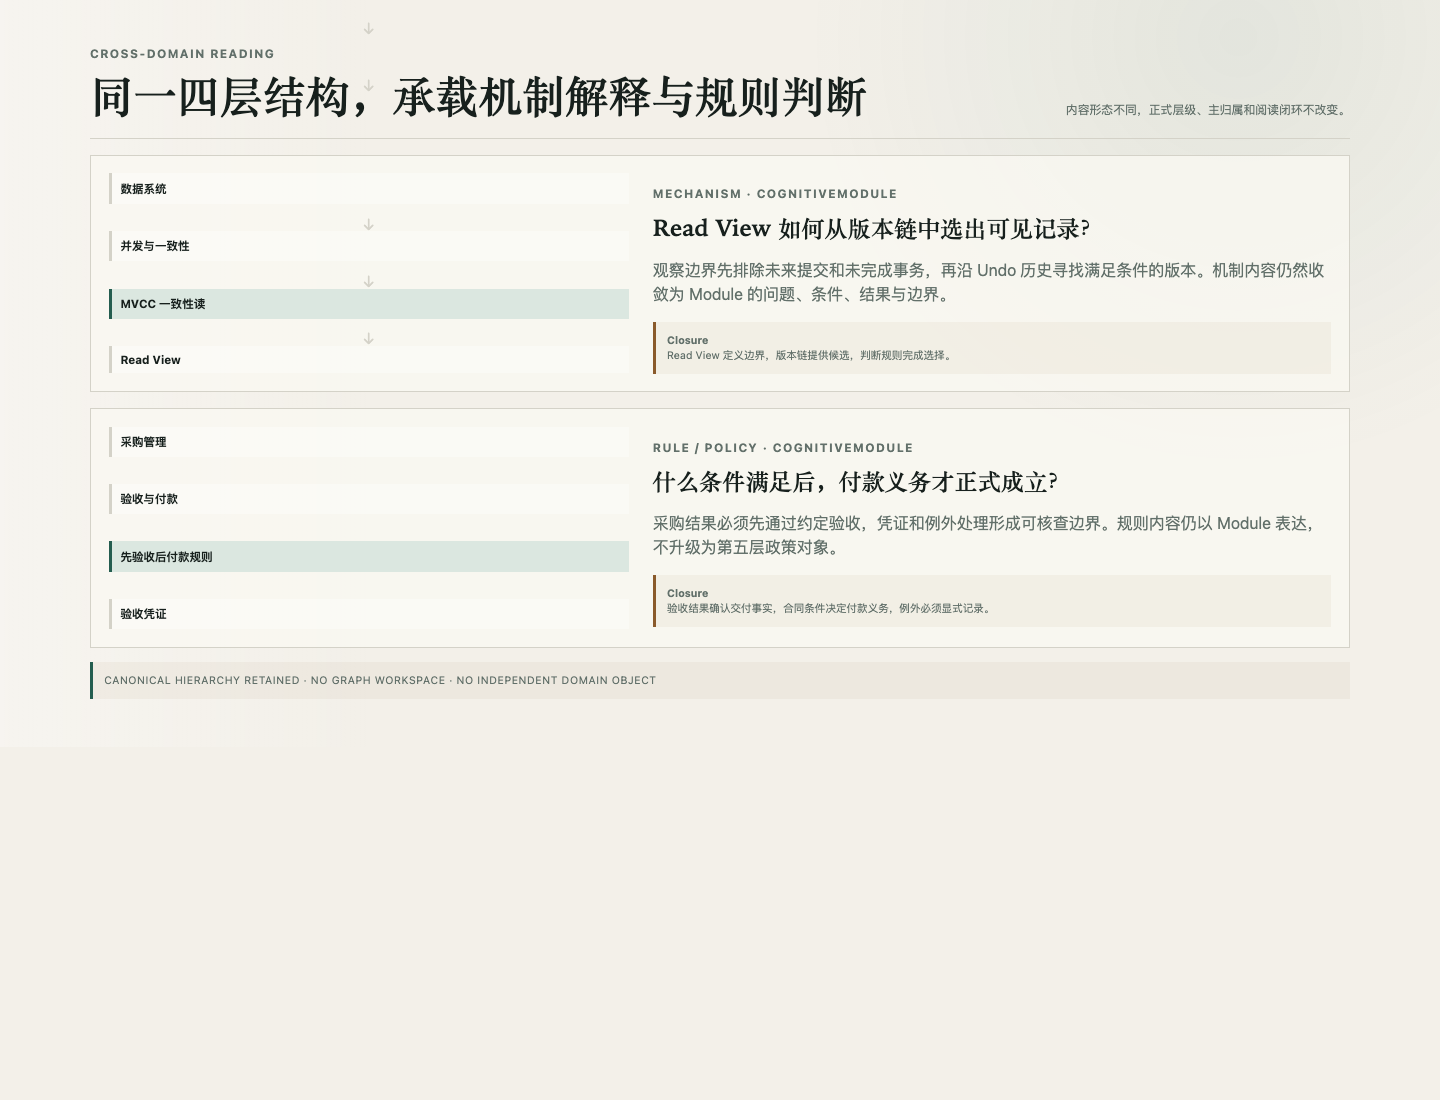
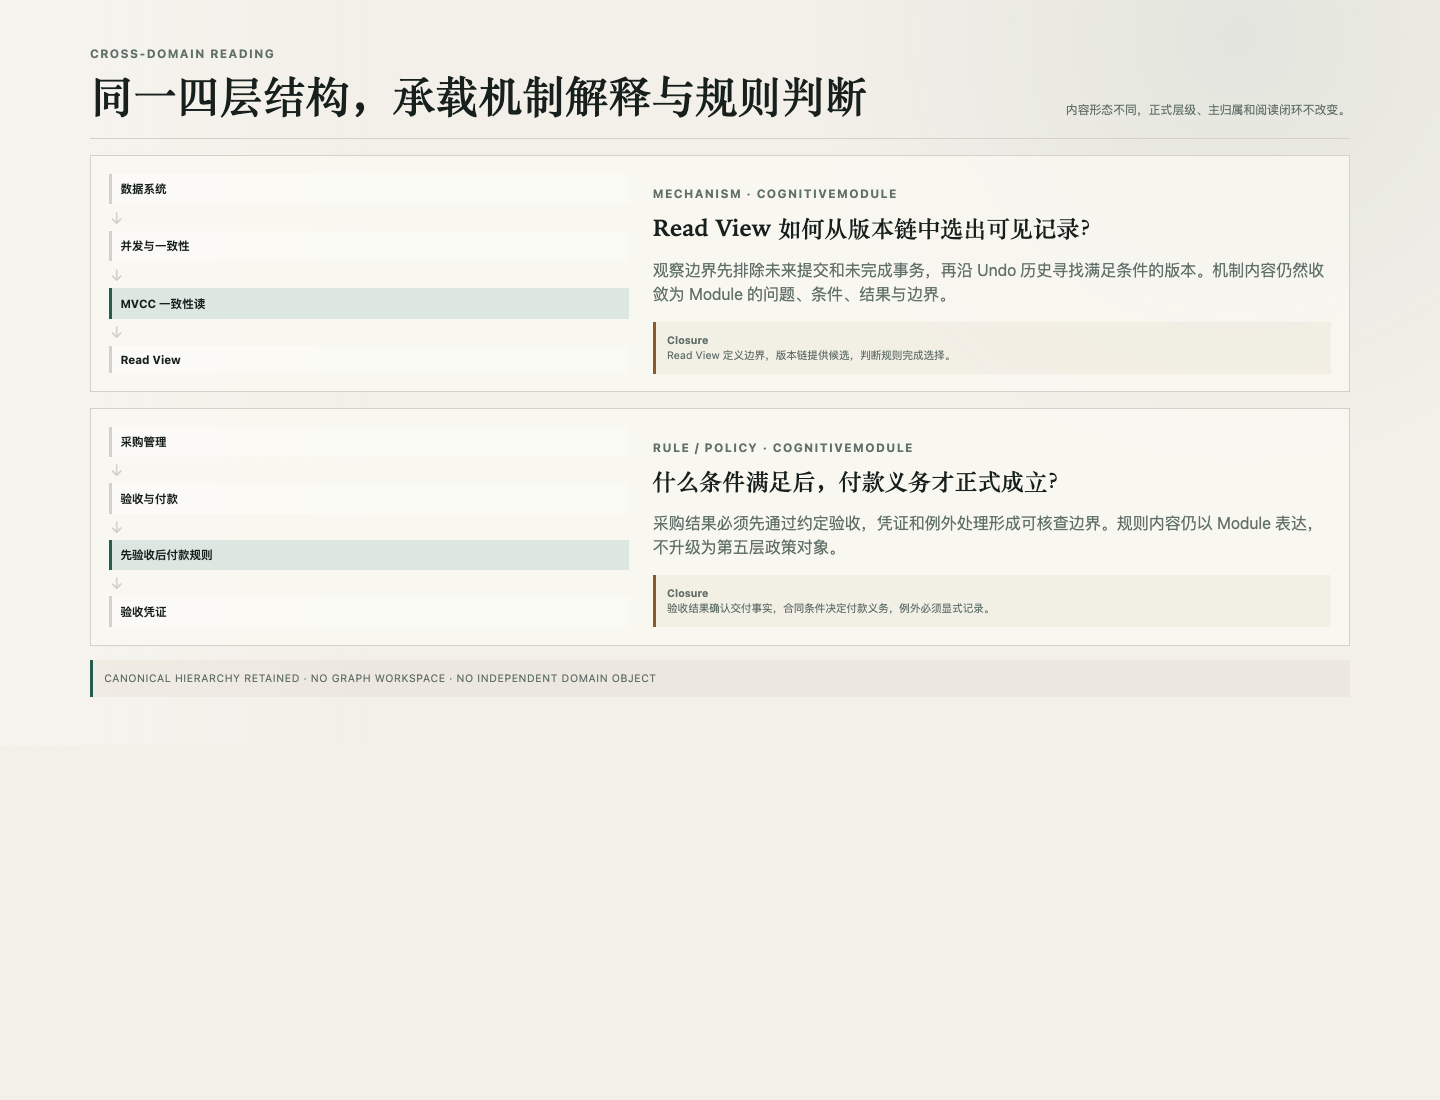
fix: close final HV-D04 visual geometry gaps

diff --git a/docs/design/high-fidelity/prototype/styles.css b/docs/design/high-fidelity/prototype/styles.css
@@ -2168,7 +2168,12 @@ kbd {
 }
 
 .cross-domain-case .canonical-hierarchy i {
-  padding-left: 0.4rem;
+  width: 1em;
+  height: 1em;
+  padding: 0;
+  justify-self: start;
+  line-height: 1;
+  text-align: center;
   transform: rotate(90deg);
 }
 
@@ -2361,7 +2366,7 @@ body[data-state-fixture="module-small-screen"] {
 }
 
 .export-header h1 {
-  max-width: 720px;
+  max-width: 800px;
   margin: 0.4rem 0 0;
   font-family: var(--font-reading);
   font-size: 3.15rem;
